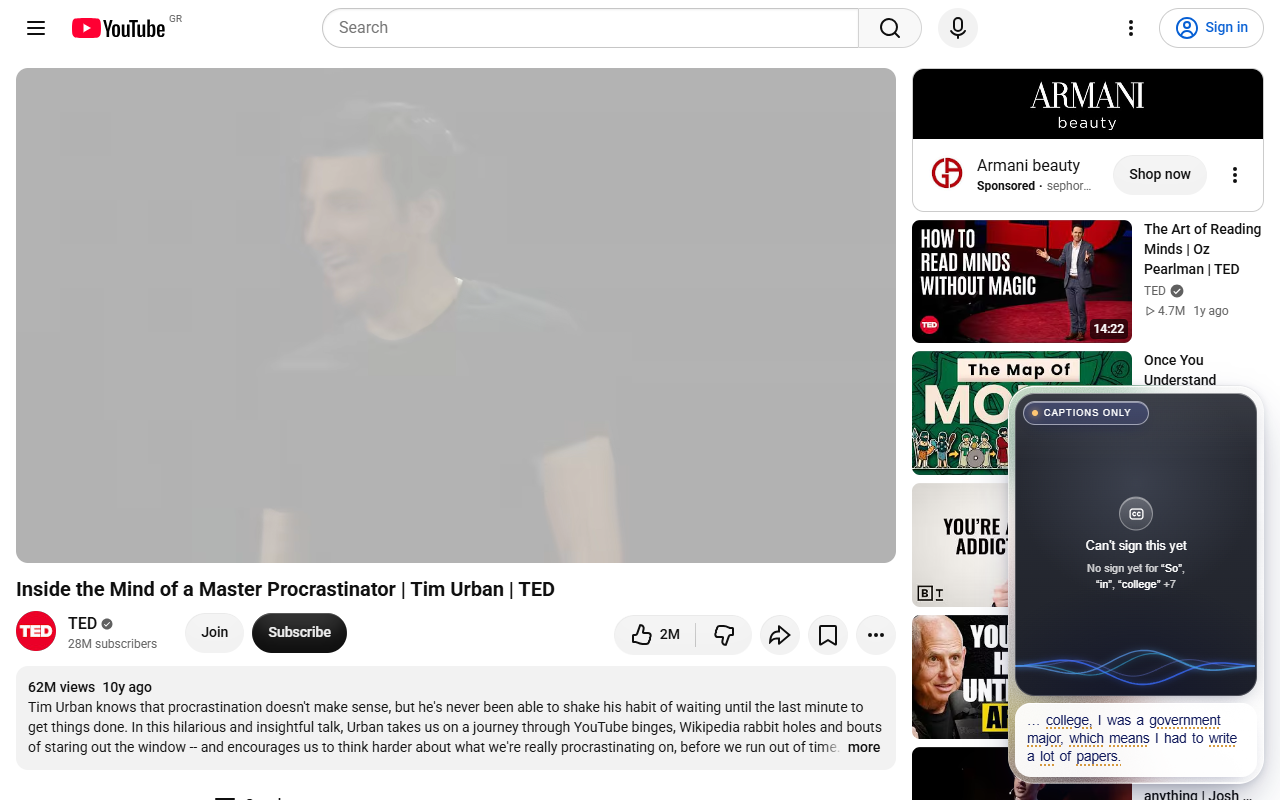
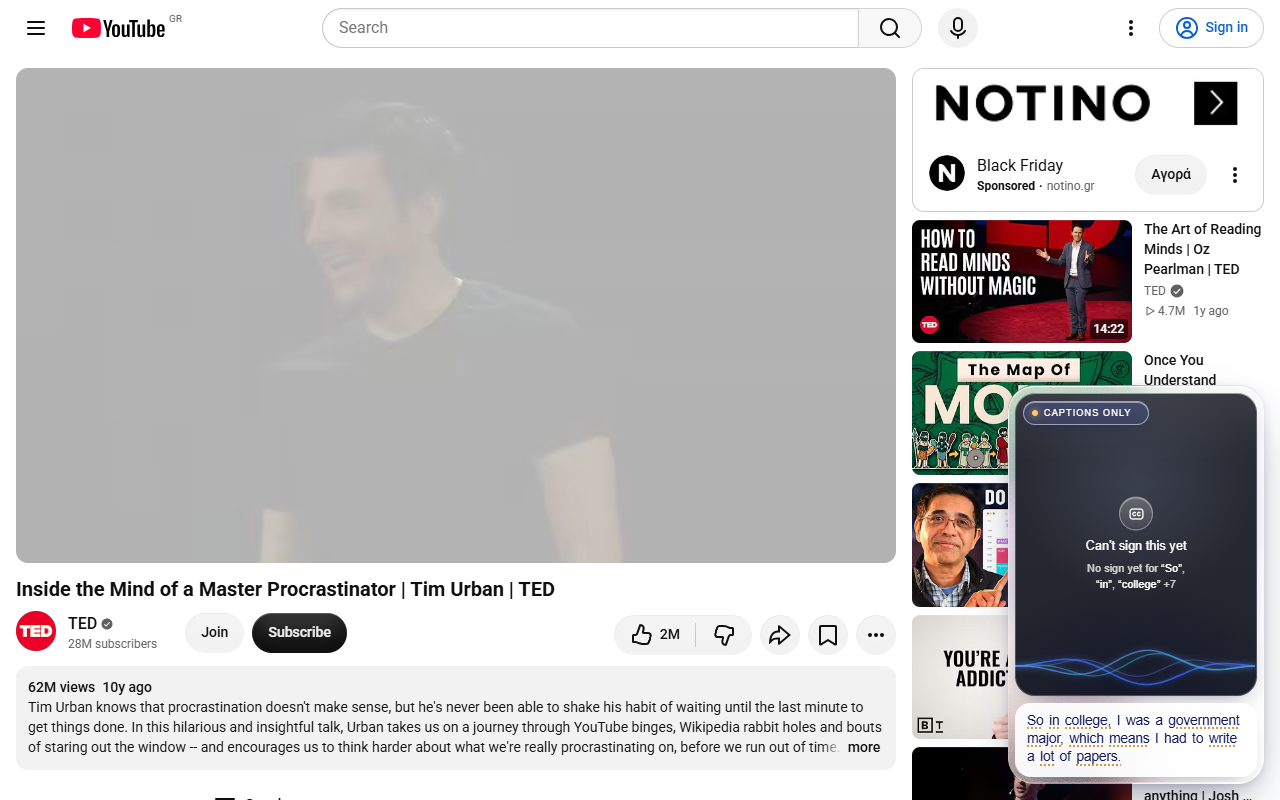
Extension: blocked phrases show the whole caption, never trimmed
Alex's rule is the exact caption: the sheet grows to five lines and then
scrolls instead of showing only the tail of a long transcript sentence.

Changed region(s): [[0.6875, 0.5938, 0.9688, 0.9375], [0.6875, 0.0625, 1.0, 0.25]]

diff --git a/app/extension/entrypoints/overlay/main.ts b/app/extension/entrypoints/overlay/main.ts
@@ -405,9 +405,8 @@ function renderCaptions() {
       chunkKey = key;
       const bad = new Set([...res.unsupported, ...(res.fingerspell ?? []), ...res.safety!.reasons.flatMap((r) => r.tokens)].map(bare));
       const words = caption.split(/\s+/).filter(Boolean);
-      const n = CHUNK[s.size] + 6;
-      const tail = words.length > n ? ["…", ...words.slice(-n)] : words;
-      cc.innerHTML = `<i class="hl"></i>${tail.map((w) => `<span class="w caption${bad.has(bare(w)) ? " nosign" : ""}">${esc(w)}</span>`).join(" ")}`;
+      // The whole caption, never trimmed (the sheet grows to 5 lines, then scrolls).
+      cc.innerHTML = `<i class="hl"></i>${words.map((w) => `<span class="w caption${bad.has(bare(w)) ? " nosign" : ""}">${esc(w)}</span>`).join(" ")}`;
     }
     return;
   }

diff --git a/app/extension/entrypoints/overlay/style.css b/app/extension/entrypoints/overlay/style.css
@@ -126,6 +126,7 @@ body { font-size: 12px; --ink-cap: #111a5c; --amber: #ffc46b; --mint: #5ef2c2; }
 .cc.pending .w { animation: wordIn .4s cubic-bezier(.2,.8,.2,1) both, shimmer 1.4s ease-in-out .4s infinite; }
 @keyframes shimmer { 50% { opacity: .62; } }
 .card.nocc:not(.forcecc) .sheet { display: none; }
+.card.forcecc .cc { max-height: calc(5 * 1.36em + 19px); overflow-y: auto; scrollbar-width: thin; }
 
 /* ── Sizes ── */
 body[data-size="s"] .card { padding: 6px; gap: 6px; border-radius: 22px; }
